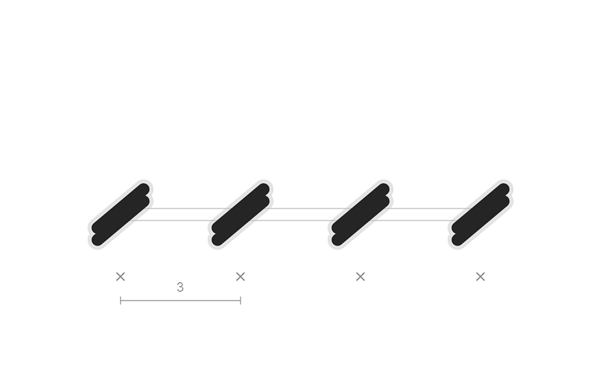
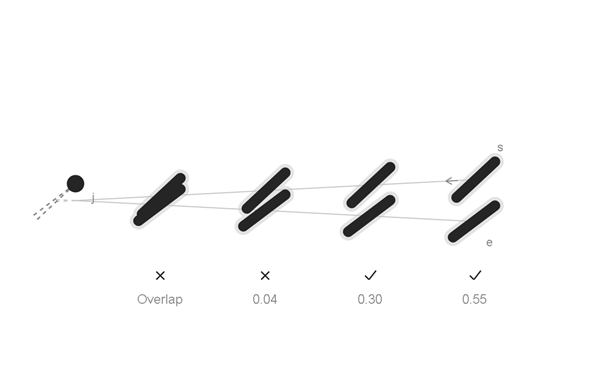
Show clearance passing and failing along acute junction arms

diff --git a/examples/illustrated/README.md b/examples/illustrated/README.md
@@ -56,15 +56,15 @@ The straight and curved portions use one slit at their common tangent. Revealing
 
 ### Share the branching junction: A9
 
-Stitch inward along each of the three arms, then identify their shared round hole. The `j` label is visible from the first frame. Each arm's nearest slit is one nominal pitch from the hole. `ILL-JUNCTION`.
+Reserve one round hole and its nominal neighbours before filling the arms. `ILL-JUNCTION`.
 
-![Three rows approach the T junction and share one round hole](assets/axiom-junction.gif)
+![A T junction shares one hole with nominal neighbours on each arm](assets/axiom-junction.gif)
 
 ### Check the whole layout: A10
 
-Both rows retain nominal pitch as their guides approach. The final arrangement is rejected because the slit profiles overlap. Light envelopes show the clearance allowance. This example specifies $w=0.3\,\mathrm{mm}$ and $m=0.2\,\mathrm{mm}$; it is deliberately invalid. `ILL-CLEARANCE`.
+Two fixed arms meet at $6^\circ$. Stitching approaches the junction from the wide end: two pairs pass, the next leaves only $0.04\,\mathrm{mm}$ clearance, and the nearest pair overlaps. Checks and crosses identify the result; numbers are edge-to-edge clearance in millimetres. Light envelopes show the required allowance. With $w=0.3\,\mathrm{mm}$ and $m=0.2\,\mathrm{mm}$, the complete layout is invalid. `ILL-CLEARANCE`.
 
-![Individually valid rows collide when placed together](assets/axiom-clearance.gif)
+![Pairs farther from the junction pass clearance; pairs near it fail](assets/axiom-clearance.gif)
 
 ## Further model examples
 

diff --git a/docs/PITCH_skeleton.md b/docs/PITCH_skeleton.md
@@ -130,9 +130,10 @@ Research note: Anthony to find stitching examples from:
 
 - Distinct openings must remain disjoint and retain the required edge-to-edge margin
 - Check all openings together, including separate guides and closure
-- Example: slit width $w=0.3\,\mathrm{mm}$, margin $m=0.2\,\mathrm{mm}$; the overlapping rows fail
+- Acute junction: the nearest pair overlaps; the next pair misses the required margin; farther pairs pass
+- Example: included angle $6^\circ$, slit width $w=0.3\,\mathrm{mm}$, margin $m=0.2\,\mathrm{mm}$
 
-![A10: locally valid rows collide when placed together](../examples/illustrated/assets/axiom-clearance.gif)
+![A10: clearance fails near the acute junction and passes farther along its arms](../examples/illustrated/assets/axiom-clearance.gif)
 
 # Model and solution
 
